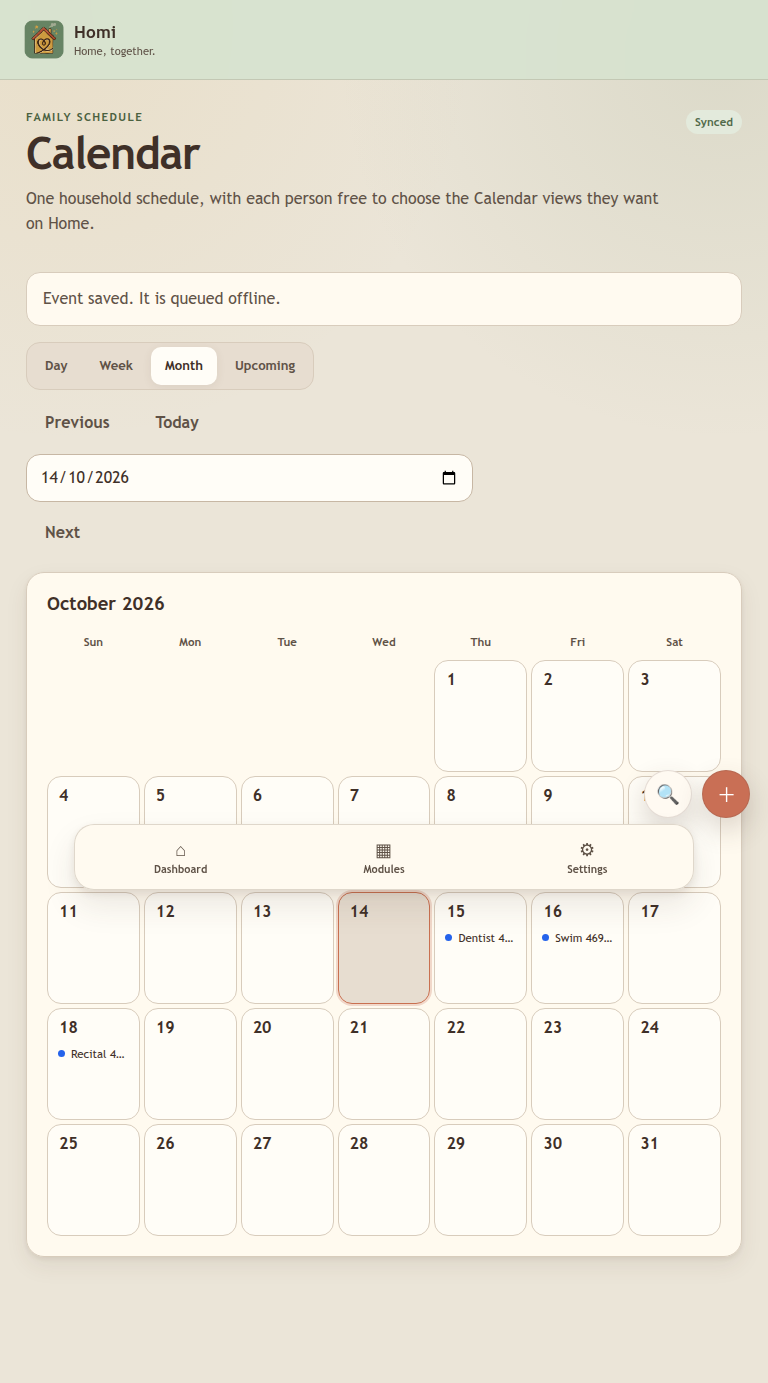
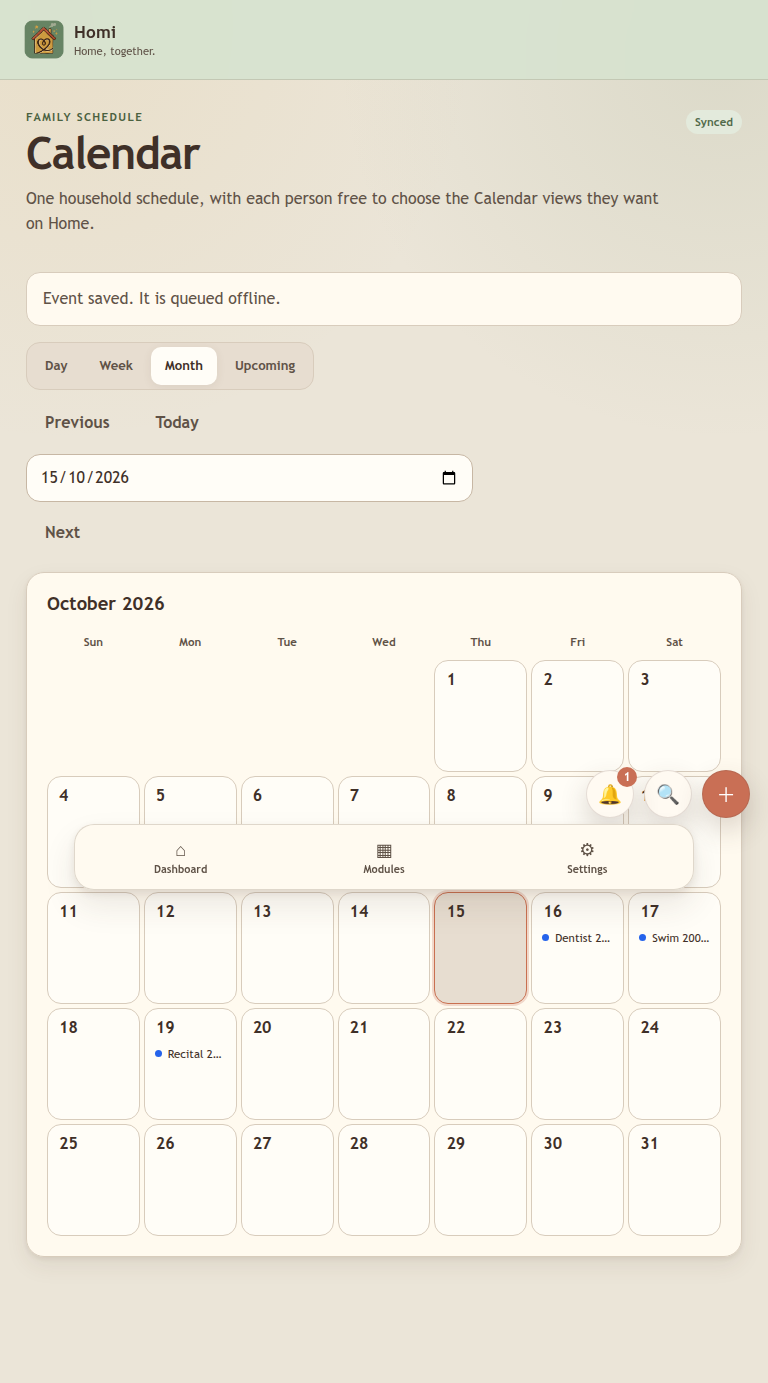
Homi 1.5.1: K.I.S.S. 0.4.2 contrast fixes; acceptance and accessibility suites; certification evidence

diff --git a/packages/kiss/src/web.tsx b/packages/kiss/src/web.tsx
@@ -16,14 +16,14 @@ import type { Answer, Checkin, KissContext, Me, Note, PersonOption, PlannedDate,
 // Palette from the K.I.S.S. brand brief. Fonts fall back to the system's
 // rounded faces so nothing is fetched from a third party.
 const css = `
-.kiss {--k-coral:#ff4d6d;--k-gold:#ffb703;--k-violet:#5e0894;--k-plum:#9d40d6;--k-cream:#fff0f5;
+.kiss {--k-coral:#ff4d6d;--k-gold:#ffb703;--k-violet:#5e0894;--k-plum:#8a2cc4;--k-cream:#fff0f5;
   background:radial-gradient(circle at 20% 0,#7a14c2 0,#7209b7 50%,var(--k-violet) 100%);color:var(--k-cream);
   font-family:"Nunito",ui-rounded,system-ui,sans-serif;border-radius:24px;padding:clamp(1rem,3vw,1.6rem);
   max-width:48rem;margin:auto;position:relative;overflow:hidden;box-shadow:0 0 20px rgba(255,77,109,.25)}
 .kiss h1,.kiss h2,.kiss h3,.kiss p {margin:0}
 .kiss-title {font-family:"Baloo 2",ui-rounded,system-ui,sans-serif;font-size:clamp(1.8rem,6vw,2.4rem);color:var(--k-gold);
   letter-spacing:.02em}
-.kiss-sub {opacity:.85;margin:.1rem 0 1rem}
+.kiss-sub {margin:.1rem 0 1rem}
 .kiss-head {display:flex;align-items:center;justify-content:space-between;gap:.8rem;margin:0 0 .6rem}
 .kiss-head .kiss-sub {margin:0;font-size:clamp(.72rem,2.6vw,1rem)}
 .kiss-streak {display:flex;flex-direction:column;align-items:center;flex:0 0 auto;position:relative;
@@ -53,7 +53,7 @@ const css = `
 .kiss label,.kiss legend {color:var(--k-cream)}
 .kiss textarea,.kiss input[type=text],.kiss select {width:100%;box-sizing:border-box}
 .kiss input[type=range] {width:100%;accent-color:var(--k-coral);min-height:32px}
-.kiss .homi-ui-button--primary {background:var(--k-coral);border-color:var(--k-coral);color:#fff}
+.kiss .homi-ui-button:not(.homi-ui-button--secondary):not(.homi-ui-button--quiet) {background:#c9184a;border-color:#c9184a;color:#fff}
 .kiss .homi-ui-button--secondary,.kiss .homi-ui-button--quiet {background:transparent;color:var(--k-cream);border-color:rgba(255,240,245,.5)}
 .kiss-row {display:flex;gap:.6rem;flex-wrap:wrap;align-items:center}
 .kiss-locked {filter:blur(7px);user-select:none;pointer-events:none}
@@ -68,7 +68,7 @@ const css = `
 .kiss-bubble {display:inline-block;max-width:90%;text-align:left;background:var(--k-plum);border:1px solid rgba(255,240,245,.3);
   border-radius:18px;padding:.6rem .9rem;overflow-wrap:anywhere;white-space:pre-wrap}
 .kiss-note.new .kiss-bubble {border-color:var(--k-gold);box-shadow:0 0 14px rgba(255,183,3,.45)}
-.kiss-meta {font-size:.8rem;opacity:.8;margin-top:.15rem}
+.kiss-meta {font-size:.8rem;margin-top:.15rem}
 .kiss-lock {text-align:center;padding:2rem 1rem}
 .kiss-spark {position:absolute;width:6px;height:6px;border-radius:50%;background:var(--k-gold);opacity:.6;
   animation:kiss-float 7s ease-in infinite;pointer-events:none}

diff --git a/packages/kiss/src/constants.ts b/packages/kiss/src/constants.ts
@@ -1,5 +1,5 @@
 export const KISS_MODULE_KEY = "kiss" as const;
-export const KISS_VERSION = "0.4.1" as const;
+export const KISS_VERSION = "0.4.2" as const;
 
 export const LIMITS = { answer: 2000, note: 500, title: 120, step: 200, steps: 30 } as const;
 export const PHASES = ["dating", "cohabiting", "married"] as const;

diff --git a/CHANGELOG.md b/CHANGELOG.md
@@ -2,6 +2,12 @@
 
 All notable changes to Homi are recorded here, newest first. Homi follows semantic versioning from 1.0, and entries before 1.0 are identified by date; each module is versioned independently and every module release is published with a signed, verified entry in the [module directory](docs/MODULE_DIRECTORY.md). Known limitations are in [the release notes](docs/RELEASE_NOTES.md#known-limitations).
 
+## 1.5.1 — 2026-10-15
+
+### Modules
+- **K.I.S.S. 0.4.2:** colour contrast raised so every screen passes the axe WCAG 2.0/2.1 A and AA rules at phone and desktop widths in light and dark schemes (card purple darkened, buttons and secondary text no longer rely on reduced opacity). No data or behaviour change.
+- **Certification:** Calendar 0.6.23, Noticeboard 0.1.5 and K.I.S.S. 0.4.2 passed their isolated acceptance suites with the exact published packages and are marked verified in the signed directory. K.I.S.S. gained `packages/kiss/qa/acceptance.mjs` (two partners and an administrator who is not a partner: pairing, server-withheld reveal, Vibe Match, streak, check-in, love note, PIN lock, layout) and `qa/accessibility.mjs`.
+
 ## 1.5.0 — 2026-10-15
 
 ### Core and web app
@@ -14,7 +20,7 @@ All notable changes to Homi are recorded here, newest first. Homi follows semant
 ### Modules
 - **Calendar 0.6.23:** defines `calendar.reminder.title` and `calendar.reminder.body` and passes a readable `when` ("in 15 minutes", "in 1 hour 30 minutes") so a reminder reads "Dentist — Starts in 15 minutes."
 - **Noticeboard 0.1.5:** line breaks typed in a note are kept on the board and in the list preview (they were flattened to a single space). Full-note view is unchanged.
-- **K.I.S.S. 0.4.1 (new, not yet in the verified directory):** a private module for two partners. See [its README](packages/kiss/README.md).
+- **K.I.S.S. 0.4.1 (new):** a private module for two partners. See [its README](packages/kiss/README.md).
 
 ### Testing
 - `apps/core/scripts/validate-notification-push.mjs` (`pnpm --filter @homi/core notifications:validate`) round-trips the payload encryption and verifies the VAPID signature.

diff --git a/docs/RELEASE_NOTES.md b/docs/RELEASE_NOTES.md
@@ -5,7 +5,7 @@ Status: Homi 1.0, released 2026-10-02. Homi runs in everyday household use. From
 ## Included
 
 - Notifications (1.5): a bell with an unread count among the floating buttons opens each member's inbox, and a member can turn on notifications per device so reminders (Calendar's, for one) arrive as push notifications even when Homi is closed. Delivery is standard Web Push, implemented in Core.
-- K.I.S.S. 0.4.1: a private module for two partners (daily question that reveals when both have answered, a daily-answer streak, check-ins, love notes, date nights, daily quizzes, a private Yes/No/Maybe checklist). Not yet in the verified directory.
+- K.I.S.S. 0.4.2: a private module for two partners (daily question that reveals when both have answered, a daily-answer streak, check-ins, love notes, date nights, daily quizzes, a private Yes/No/Maybe checklist). Not yet in the verified directory.
 - Homi Core with accounts, households, permissions, audited changes, offline-first synchronization, PWA delivery, backup/recovery, and the managed module platform.
 - Calendar 0.6.23, Chequebook 0.1.27, and Shopping List 0.4.1, whose Dashboard cards declare sizes and adapt to the size each member chooses: today's events with times, the coming week by day, a mini month with event dots, bold balance and spending figures, and the shopping list or counts by store, written on a spiral notepad (1.4.4).
 - Noticeboard 0.1.5 (1.2): a shared board of pinned notes, photos and lists. The Dashboard card scales to the card, notices can be arranged, sized to any width and height by their corner handle (or its arrow keys), with their writing and photo drawn to fit, and overlapped, anyone can unpin a notice (it stays in the module) or pin it back, and only the author or an administrator can delete. Add notices from the card's tack or the module's `+`; Search finds them.

diff --git a/README.md b/README.md
@@ -38,7 +38,7 @@ Additional release details and known limitations are in [the release notes](docs
 - Core-owned Dashboard, a Modules pop-up launcher, Settings (with Manage modules), universal Search across all enabled modules, and Add surfaces
 - independent module packages, immutable version/digest registry, transactional migrations, rollback, enable/disable, setup, assets, jobs, sync adapters, settings, and Family Board contributions
 - public `@homi/module-sdk`, `@homi/ui`, and starter module template
-- Calendar `0.6.23`, Chequebook `0.1.27`, Shopping List `0.4.1`, Noticeboard `0.1.5`, Meal Planner `0.1.0`, and K.I.S.S. `0.4.1` (a private couples module; not yet in the verified directory)
+- Calendar `0.6.23`, Chequebook `0.1.27`, Shopping List `0.4.1`, Noticeboard `0.1.5`, Meal Planner `0.1.0`, and K.I.S.S. `0.4.2` (a private couples module)
 - a notification inbox and opt-in device push notifications (Web Push) for every module's reminders
 - per-member Family Board card styles, chosen in Settings → Manage modules (for example Shopping's list or counts by store)
 - a Family Board grid each member arranges by dragging and corner-resizing cards, with separate phone and wide-screen layouts

diff --git a/packages/kiss/README.md b/packages/kiss/README.md
@@ -43,7 +43,7 @@ Statement ids (for example `words-3`) never change once shipped; new statements 
 
 - The daily question and quiz banks are finite and repeat. Generated content (an LLM provider) is not included.
 - A partner's answer appears within about 20 seconds, or at once with "Check now"; Core's change feed carries ids only, so there is no instant push of the reveal.
-- It is not yet in the verified module directory. Isolated two-account browser acceptance and the accessibility pass have not been run for this module.
+- Verified: the isolated two-account acceptance suite (`qa/acceptance.mjs`, 13 checks) and the axe accessibility pass (`qa/accessibility.mjs`, 28 screens, 0 violations) passed with the published 0.4.2 package.
 
 ## Build and validate
 
